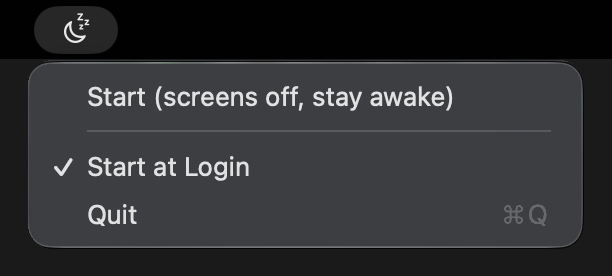
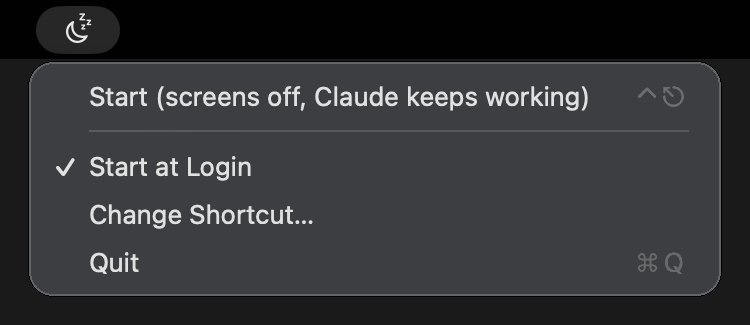
Open the menu on first run; cleaner screenshot with the new menu

Changed region(s): [[0.0, 0.0, 1.0, 0.9275], [0.1242, 0.2609, 0.9003, 0.4058]]

diff --git a/main.swift b/main.swift
@@ -32,6 +32,17 @@ final class AppDelegate: NSObject, NSApplicationDelegate {
 
         hotKey.register(shortcut)
         refreshUI()
+        showMenuOnFirstRun()
+    }
+
+    /// Right after install, open the menu so people see where the app lives.
+    private func showMenuOnFirstRun() {
+        let key = "didShowMenuOnFirstRun"
+        guard !UserDefaults.standard.bool(forKey: key) else { return }
+        UserDefaults.standard.set(true, forKey: key)
+        DispatchQueue.main.asyncAfter(deadline: .now() + 0.5) { [weak self] in
+            self?.statusItem.button?.performClick(nil)
+        }
     }
 
     @objc private func toggle() {
